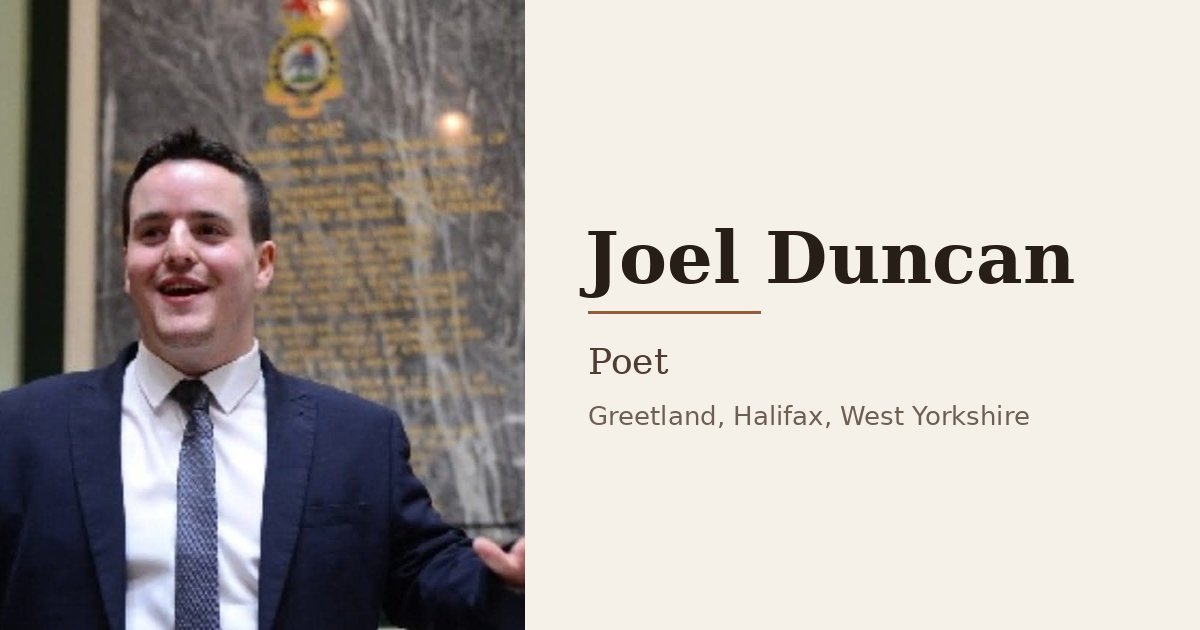
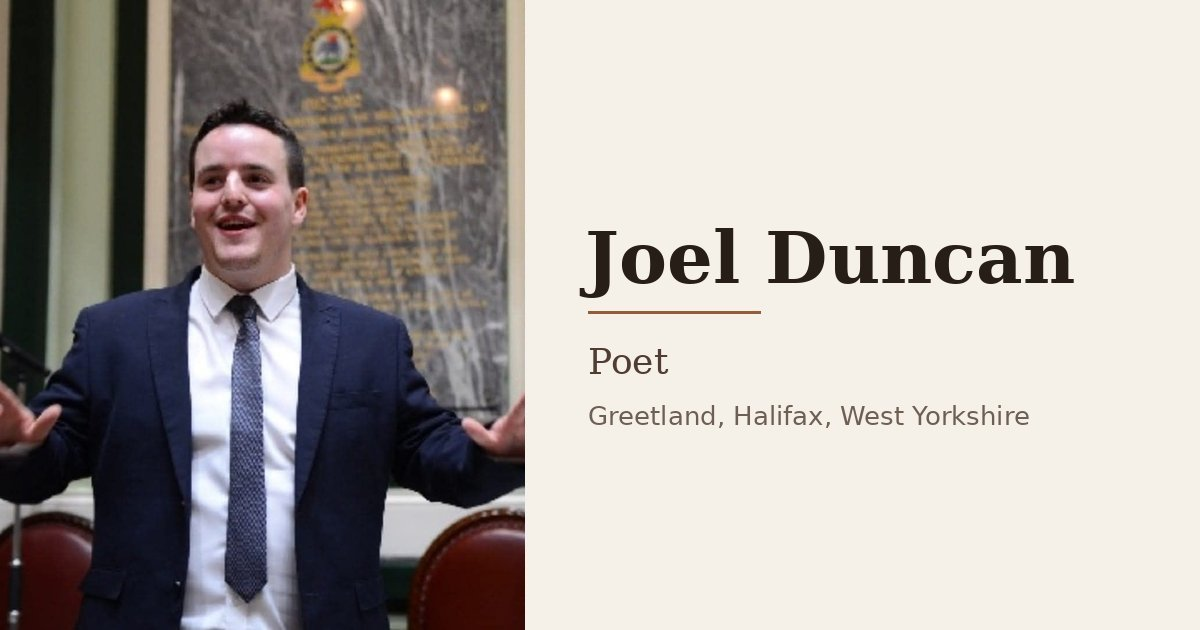
Show full photo

diff --git a/index.html b/index.html
@@ -67,7 +67,7 @@ nav.top{display:flex;gap:18px;justify-content:center;padding:16px 0 0;font-size:
 nav.top a{color:var(--muted);text-decoration:none}
 nav.top a:hover{color:var(--accent)}
 header.hero{text-align:center;padding:36px 0 30px}
-.portrait{width:200px;height:200px;border-radius:50%;object-fit:cover;object-position:50% 40%;display:block;margin:0 auto 22px;border:4px solid var(--card);box-shadow:0 6px 24px rgba(60,40,25,.18)}
+.portrait{width:240px;height:auto;aspect-ratio:auto;border-radius:18px;display:block;margin:0 auto 22px;border:4px solid var(--card);box-shadow:0 6px 24px rgba(60,40,25,.18)}
 h1{font-family:var(--serif);font-weight:600;font-size:46px;line-height:1.1;margin:0 0 8px;letter-spacing:-.01em}
 .tag{font-family:var(--serif);font-style:italic;font-size:20px;color:var(--muted);margin:0}
 .place{font-size:14px;letter-spacing:.08em;text-transform:uppercase;color:var(--muted);margin:10px 0 0}
@@ -93,7 +93,7 @@ ul.press small{display:block;color:var(--muted);font-size:14px;margin-top:2px}
 .social a{display:inline-flex;align-items:center;gap:10px;background:var(--card);border:1px solid var(--rule);border-radius:999px;padding:10px 18px;text-decoration:none;color:var(--ink);font-size:16px}
 .social svg{width:20px;height:20px;fill:currentColor}
 footer{border-top:1px solid var(--rule);padding:24px 0 40px;text-align:center;color:var(--muted);font-size:14px}
-@media (max-width:420px){h1{font-size:38px}.portrait{width:168px;height:168px}.book{flex-direction:column;align-items:center;text-align:center}.book img{width:140px}}
+@media (max-width:420px){h1{font-size:38px}.portrait{width:210px}.book{flex-direction:column;align-items:center;text-align:center}.book img{width:140px}}
 </style>
 </head>
 <body>
@@ -101,7 +101,7 @@ footer{border-top:1px solid var(--rule);padding:24px 0 40px;text-align:center;co
 <nav class="top" aria-label="Sections"><a href="#about">About</a><a href="#books">Books</a><a href="#press">Press</a><a href="#find">Find me</a></nav>
 
 <header class="hero">
-<img class="portrait" src="images/joel-duncan-poet.jpg" srcset="images/joel-duncan-poet-360.jpg 360w, images/joel-duncan-poet.jpg 720w" sizes="200px" width="200" height="200" alt="Joel Duncan, smiling, in a suit">
+<img class="portrait" src="images/joel-duncan-poet.jpg" srcset="images/joel-duncan-poet-360.jpg 360w, images/joel-duncan-poet.jpg 720w" sizes="240px" width="240" height="241" alt="Joel Duncan, smiling, in a suit">
 <h1>Joel Duncan</h1>
 <p class="tag">Poet</p>
 <p class="place">Greetland, Halifax, West Yorkshire</p>
@@ -118,7 +118,7 @@ footer{border-top:1px solid var(--rule);padding:24px 0 40px;text-align:center;co
 <section id="books">
 <h2>Books</h2>
 <div class="book">
-<a href="https://www.amazon.co.uk/My-Last-Everything-Joel-Duncan/dp/1909548537"><img src="images/my-last-everything-cover.jpg" width="329" height="500" loading="lazy" alt="Cover of My Last Everything by Joel Duncan"></a>
+<a href="https://www.amazon.co.uk/My-Last-Everything-Joel-Duncan/dp/1909548537"><img src="images/my-last-everything-cover.jpg" width="329" height="500" alt="Cover of My Last Everything by Joel Duncan"></a>
 <div>
 <h3>My Last Everything</h3>
 <p class="meta">Poems. The King's England Press, October 2015. Paperback, 72 pages. ISBN 9781909548534</p>
